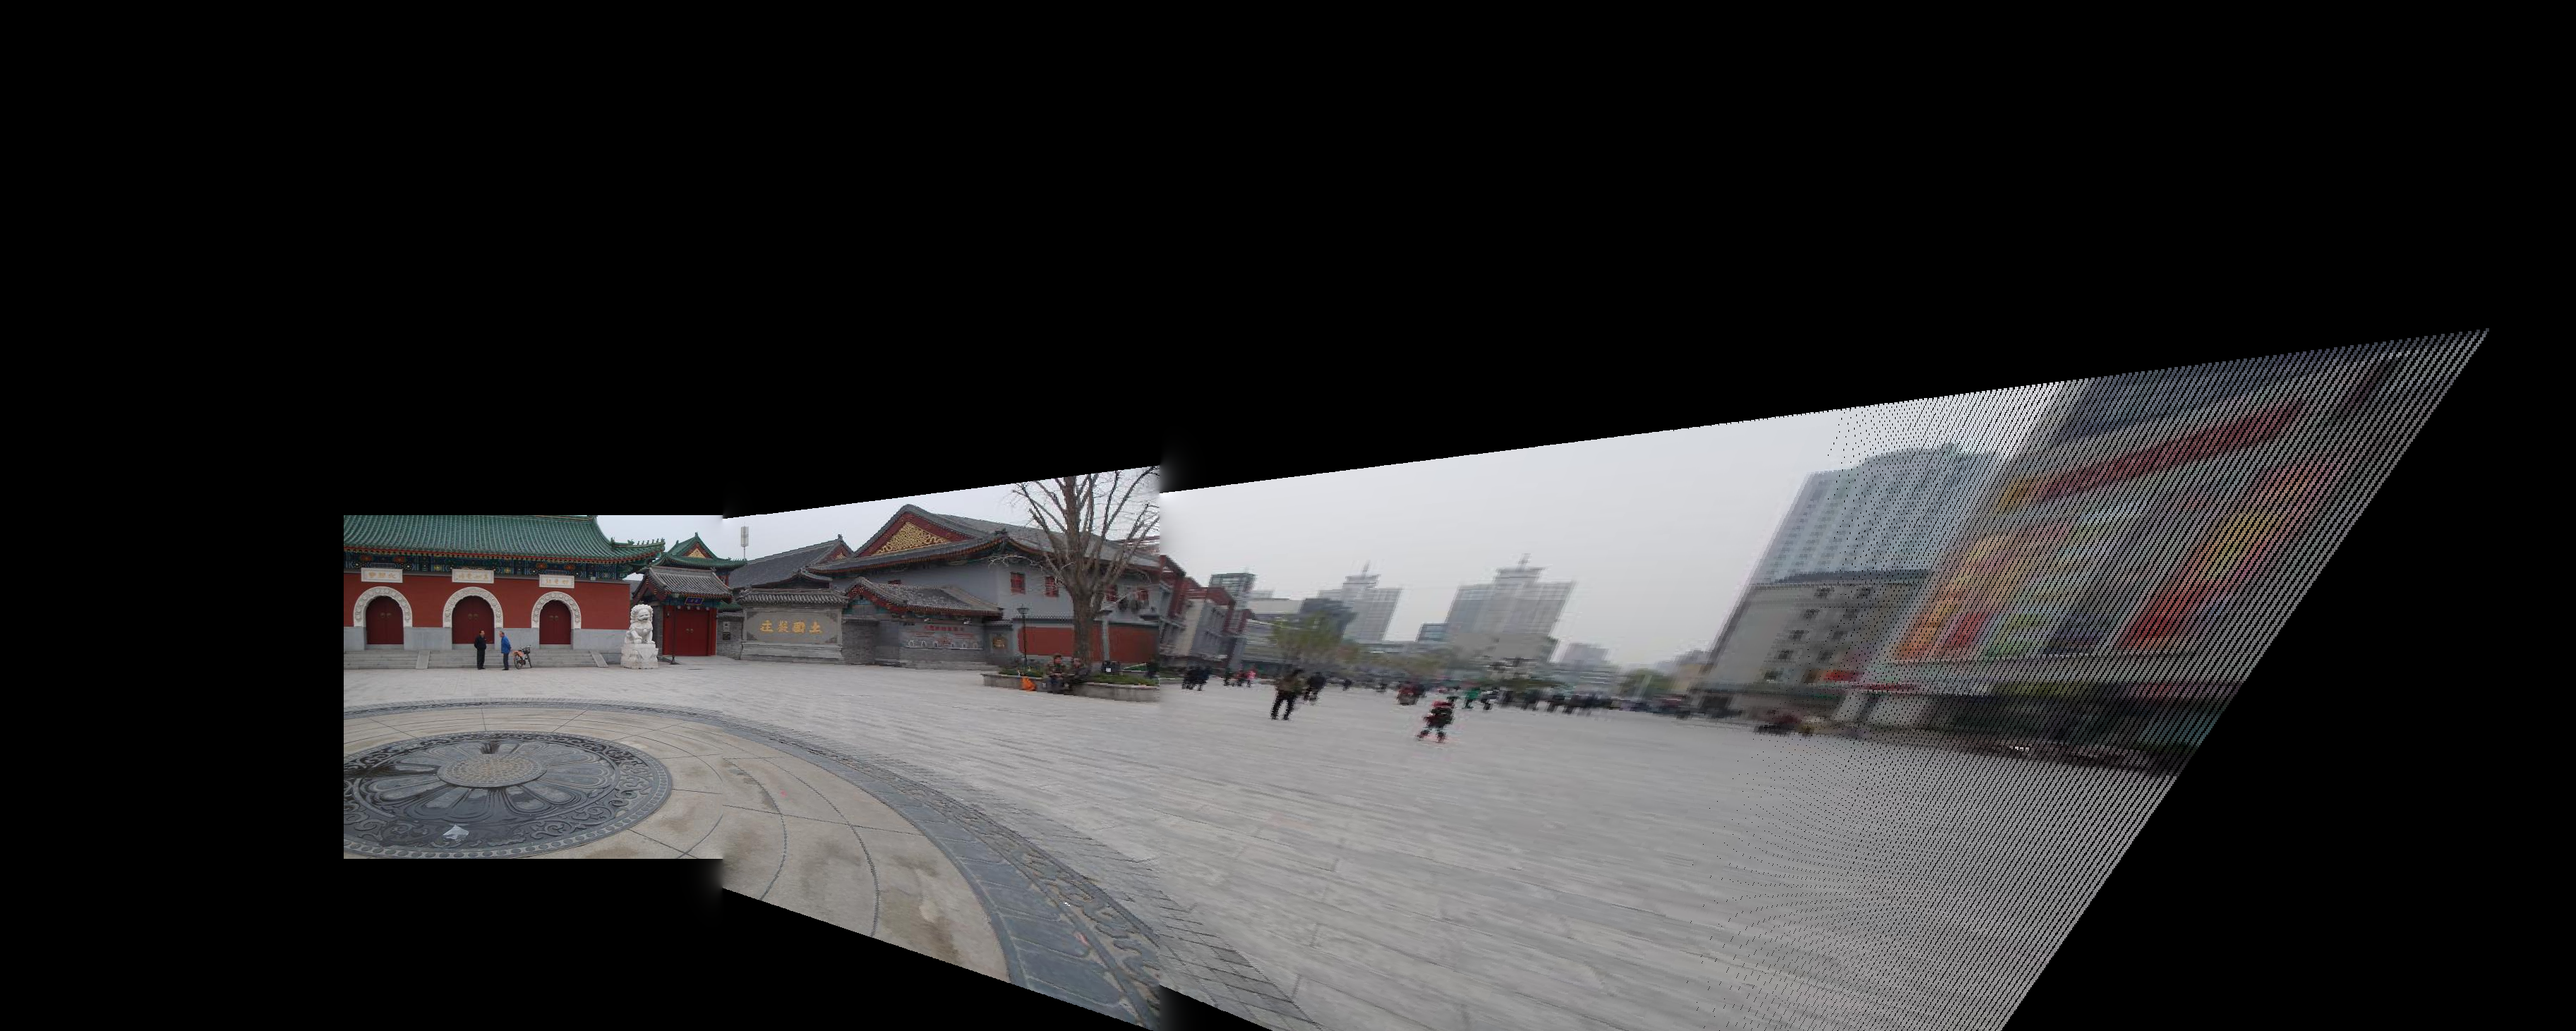
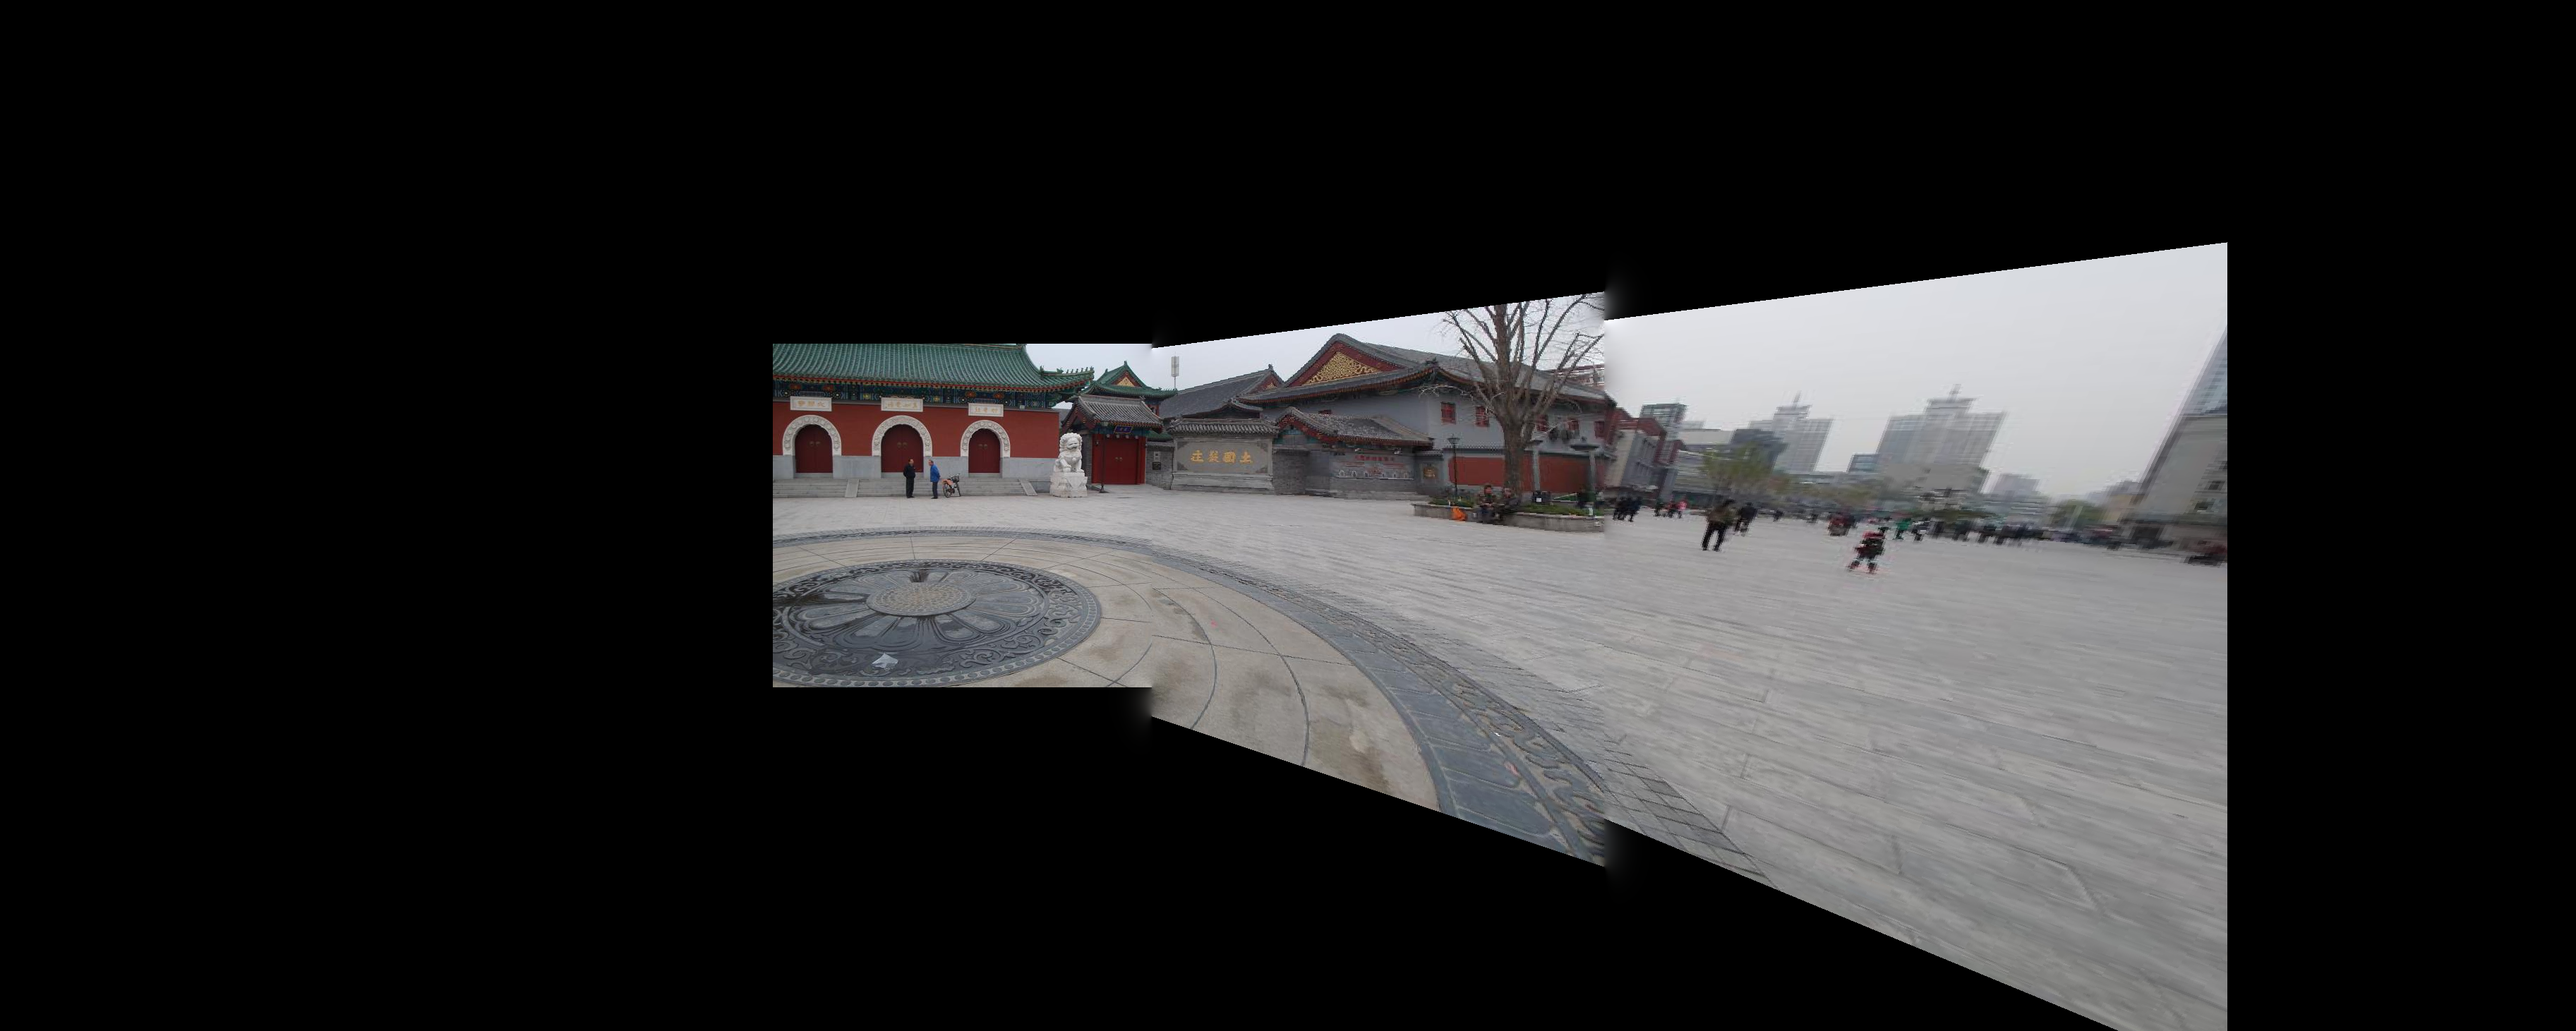
Comments and reverse mapping with inbuilt

diff --git a/Panorama_Stitching/inbuilt_functions.py b/Panorama_Stitching/inbuilt_functions.py
@@ -22,13 +22,13 @@ image4 = cv2.resize(image4, (800,600))
 # image4 = cv2.imread("inputImages/I2/2_4.JPG")
 # out = 2
 
-# SET 3
+# SET 3 - Comment the lines 96-98 to avoid errors
 # image2 = cv2.imread("inputImages/I3/3_3.JPG")
 # image3 = cv2.imread("inputImages/I3/3_4.JPG")
 # image4 = cv2.imread("inputImages/I3/3_5.JPG")
 # out = 3
 
-# SET 4
+# SET 4 - Make sure lines 96-98 are back to uncommented mode
 # image1 = cv2.imread("inputImages/I4/DSC02930.JPG")
 # image2 = cv2.imread("inputImages/I4/DSC02931.JPG")
 # image3 = cv2.imread("inputImages/I4/DSC02932.JPG")
@@ -55,7 +55,10 @@ image4 = cv2.resize(image4, (800,600))
 # image3 = cv2.resize(image3, (800,600))
 # image4 = cv2.resize(image4, (800,600))
 
-# SET 6
+# # SET 6 = Make sure to Uncomment lines 118-119, and Comment 112-115
+# This is done as the sequence of the input image in the actual scene is different that the underlying assumption of the code
+# Make sure the UNDO the changes, once this SET is completed 
+
 # image1 = cv2.imread("inputImages/I6/1_1.JPG")
 # image2 = cv2.imread("inputImages/I6/1_2.JPG")
 # image3 = cv2.imread("inputImages/I6/1_3.JPG")
@@ -85,7 +88,7 @@ def findH(A, B):
 #### Part 2: Preparing the Output Image
 height = int(3*image2.shape[0])
 width = 5*image2.shape[1]
-x_offset = int(image2.shape[1])
+x_offset = int(1.5*image2.shape[1])
 y_offset = int(image2.shape[0])
 output = setReference(image2, x_offset, y_offset, height, width)
 
@@ -111,7 +114,7 @@ output = blend(original, warped, mask, stichOnLeft=0)
 # For SET 1 to 5
 H43 = findH(image4, image3)
 H42 = np.dot(H43, H32)
-mask, original, warped =  mywarp_far(output, image4, x_offset, y_offset, H42)
+mask, original, warped =  mywarp(output, image4, x_offset, y_offset, H42)
 output = blend(original, warped, mask, stichOnLeft=0)
 
 # FOR SET - 6

diff --git a/Panorama_Stitching/helpers.py b/Panorama_Stitching/helpers.py
@@ -120,6 +120,8 @@ def mywarp(output, target, x_offset, y_offset, H):
     output_copy = np.zeros_like(output)
     h = target.shape[0]
     w = target.shape[1]
+    
+    # Finding the bounding rectange in the transformed plane.
     corners = [[0,0,1],[h-1,0,1],[0,w-1,1],[h-1,w-1,1]]
     transform_corners = np.array([H.dot(np.array(corner).T) for corner in corners])
     transform_corners = [corner/corner[2] for corner in transform_corners]
@@ -133,6 +135,8 @@ def mywarp(output, target, x_offset, y_offset, H):
     ymax = min(ymax + y_offset, output_copy.shape[0])
 
     invH = np.linalg.inv(H)
+    
+    # Reverse mapping the points in the transformed plane to check if they lie in the original images
     for j in tqdm(range(ymin,ymax)):
         for i in range(xmin,xmax):
             point = np.array([i,j,1]).T
